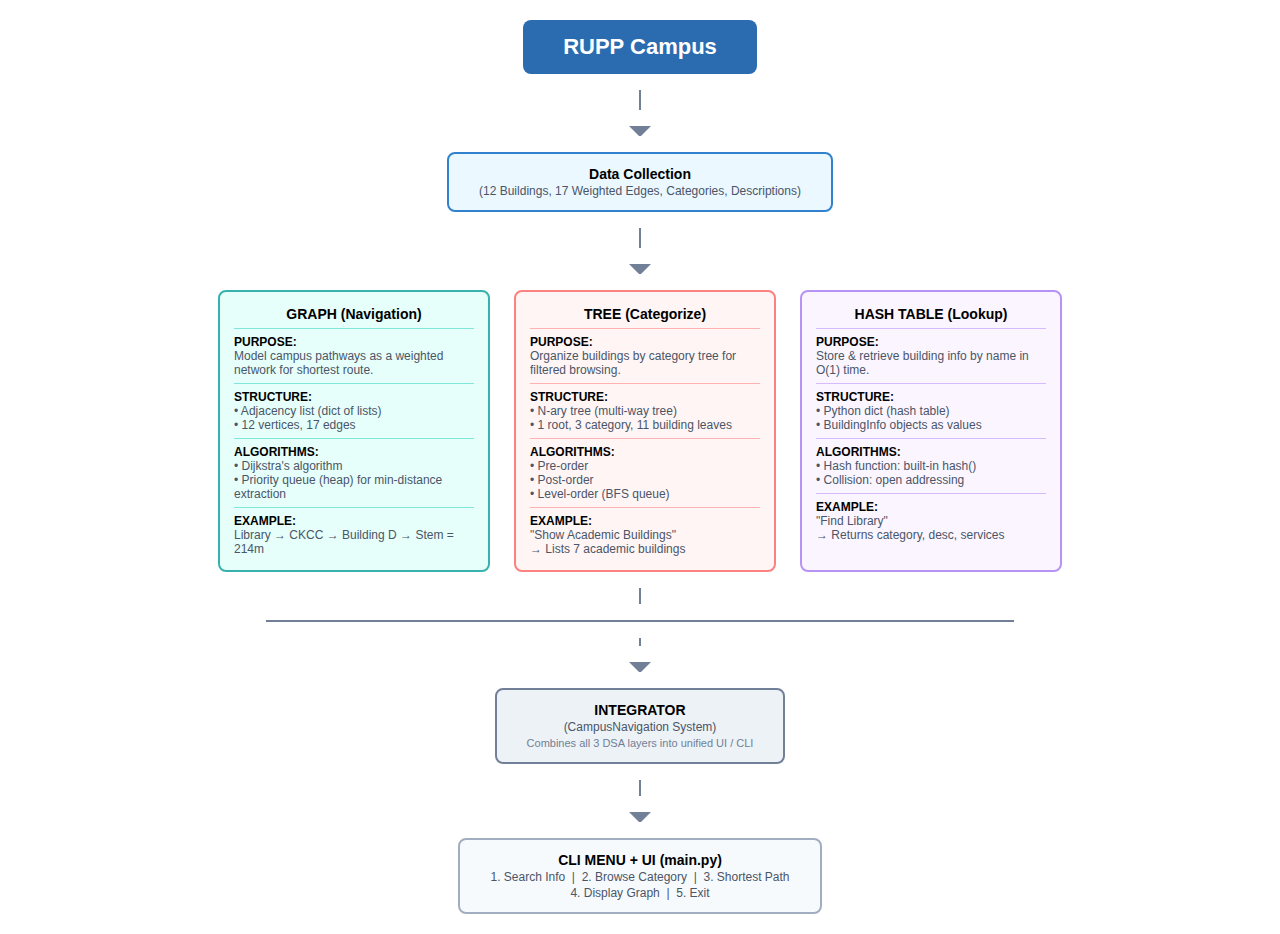
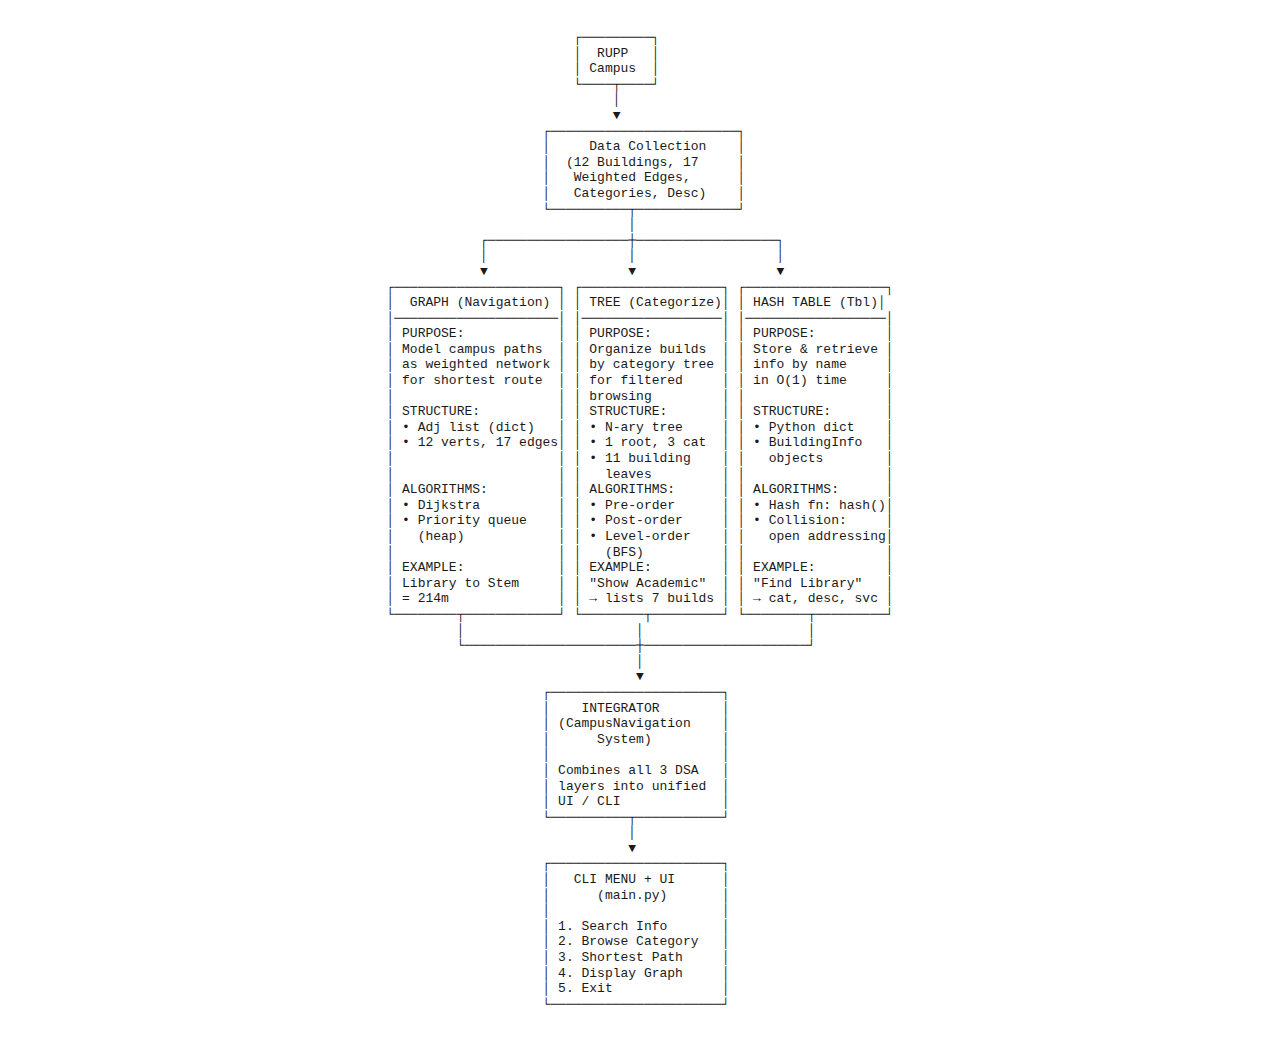
render diagram as ASCII art for student look

diff --git a/doc/architecture_diagram.py b/doc/architecture_diagram.py
@@ -1,108 +1,90 @@
 import subprocess, os
 
-HTML = r"""<!DOCTYPE html><html><body style="margin:20px;background:white;font-family:Arial,sans-serif;">
-<div style="display:flex;flex-direction:column;align-items:center;gap:16px;">
+ASCII = r"""
+                        ┌─────────┐
+                        │  RUPP   │
+                        │ Campus  │
+                        └────┬────┘
+                             │
+                             ▼
+                    ┌────────────────────────┐
+                    │     Data Collection    │
+                    │  (12 Buildings, 17     │
+                    │   Weighted Edges,      │
+                    │   Categories, Desc)    │
+                    └──────────┬─────────────┘
+                               │
+            ┌──────────────────┼──────────────────┐
+            │                  │                  │
+            ▼                  ▼                  ▼
+┌─────────────────────┐ ┌──────────────────┐ ┌──────────────────┐
+│  GRAPH (Navigation) │ │ TREE (Categorize)│ │ HASH TABLE (Tbl)│
+│─────────────────────│ │──────────────────│ │──────────────────│
+│ PURPOSE:            │ │ PURPOSE:         │ │ PURPOSE:         │
+│ Model campus paths  │ │ Organize builds  │ │ Store & retrieve │
+│ as weighted network │ │ by category tree │ │ info by name     │
+│ for shortest route  │ │ for filtered     │ │ in O(1) time     │
+│                     │ │ browsing         │ │                  │
+│ STRUCTURE:          │ │ STRUCTURE:       │ │ STRUCTURE:       │
+│ • Adj list (dict)   │ │ • N-ary tree     │ │ • Python dict    │
+│ • 12 verts, 17 edges│ │ • 1 root, 3 cat  │ │ • BuildingInfo   │
+│                     │ │ • 11 building    │ │   objects        │
+│                     │ │   leaves         │ │                  │
+│ ALGORITHMS:         │ │ ALGORITHMS:      │ │ ALGORITHMS:      │
+│ • Dijkstra          │ │ • Pre-order      │ │ • Hash fn: hash()│
+│ • Priority queue    │ │ • Post-order     │ │ • Collision:     │
+│   (heap)            │ │ • Level-order    │ │   open addressing│
+│                     │ │   (BFS)          │ │                  │
+│ EXAMPLE:            │ │ EXAMPLE:         │ │ EXAMPLE:         │
+│ Library to Stem     │ │ "Show Academic"  │ │ "Find Library"   │
+│ = 214m              │ │ → lists 7 builds │ │ → cat, desc, svc │
+└────────┬────────────┘ └────────┬─────────┘ └────────┬─────────┘
+         │                      │                     │
+         └──────────────────────┼─────────────────────┘
+                                │
+                                ▼
+                    ┌──────────────────────┐
+                    │    INTEGRATOR        │
+                    │ (CampusNavigation    │
+                    │      System)         │
+                    │                      │
+                    │ Combines all 3 DSA   │
+                    │ layers into unified  │
+                    │ UI / CLI             │
+                    └──────────┬───────────┘
+                               │
+                               ▼
+                    ┌──────────────────────┐
+                    │   CLI MENU + UI      │
+                    │      (main.py)       │
+                    │                      │
+                    │ 1. Search Info       │
+                    │ 2. Browse Category   │
+                    │ 3. Shortest Path     │
+                    │ 4. Display Graph     │
+                    │ 5. Exit              │
+                    └──────────────────────┘
+"""
 
-<div style="background:#2B6CB0;color:white;padding:14px 40px;border-radius:8px;font-size:22px;font-weight:bold;">RUPP Campus</div>
+HTML = f"""<!DOCTYPE html><html><head>
+<style>
+body {{ margin:0; background:white; display:flex; justify-content:center; align-items:center; min-height:100vh; }}
+pre {{
+    font-family: "Courier New", "Liberation Mono", monospace;
+    font-size: 13px;
+    line-height: 1.2;
+    color: #1a1a1a;
+    padding: 30px;
+    margin: 0;
+}}
+</style></head><body>
+<pre>{ASCII}</pre>
+</body></html>"""
 
-<div style="width:2px;height:20px;background:#718096;"></div>
-<div style="width:2px;height:0;border-left:10px solid transparent;border-right:10px solid transparent;border-top:10px solid #718096;"></div>
+base = os.path.dirname(__file__)
+html_path = os.path.join(base, "arch_render.html")
+png_path = os.path.join(base, "architecture_diagram.png")
 
-<div style="background:#EBF8FF;border:2px solid #3182CE;padding:12px 30px;border-radius:8px;font-size:14px;text-align:center;">
-  <b>Data Collection</b><br>
-  <span style="font-size:12px;color:#4A5568;">
-    (12 Buildings, 17 Weighted Edges, Categories, Descriptions)
-  </span>
-</div>
-
-<div style="width:2px;height:20px;background:#718096;"></div>
-<div style="display:flex;gap:20px;">
-  <div style="width:2px;height:0;border-left:10px solid transparent;border-right:10px solid transparent;border-top:10px solid #718096;"></div>
-</div>
-
-<div style="display:flex;gap:24px;">
-
-  <!-- Graph -->
-  <div style="background:#E6FFFA;border:2px solid #38B2AC;border-radius:8px;padding:14px;width:240px;font-size:12px;">
-    <div style="text-align:center;font-weight:bold;font-size:14px;margin-bottom:6px;">GRAPH (Navigation)</div>
-    <hr style="border:0;border-top:1px solid #81E6D9;">
-    <div style="margin-top:4px;"><b>PURPOSE:</b></div>
-    <div style="color:#4A5568;">Model campus pathways as a weighted network for shortest route.</div>
-    <hr style="border:0;border-top:1px solid #81E6D9;">
-    <div style="margin-top:4px;"><b>STRUCTURE:</b></div>
-    <div style="color:#4A5568;">• Adjacency list (dict of lists)<br>• 12 vertices, 17 edges</div>
-    <hr style="border:0;border-top:1px solid #81E6D9;">
-    <div style="margin-top:4px;"><b>ALGORITHMS:</b></div>
-    <div style="color:#4A5568;">• Dijkstra's algorithm<br>• Priority queue (heap) for min-distance extraction</div>
-    <hr style="border:0;border-top:1px solid #81E6D9;">
-    <div style="margin-top:4px;"><b>EXAMPLE:</b></div>
-    <div style="color:#4A5568;">Library → CKCC → Building D → Stem = 214m</div>
-  </div>
-
-  <!-- Tree -->
-  <div style="background:#FFF5F5;border:2px solid#FC8181;border-radius:8px;padding:14px;width:230px;font-size:12px;">
-    <div style="text-align:center;font-weight:bold;font-size:14px;margin-bottom:6px;">TREE (Categorize)</div>
-    <hr style="border:0;border-top:1px solid #FEB2B2;">
-    <div style="margin-top:4px;"><b>PURPOSE:</b></div>
-    <div style="color:#4A5568;">Organize buildings by category tree for filtered browsing.</div>
-    <hr style="border:0;border-top:1px solid #FEB2B2;">
-    <div style="margin-top:4px;"><b>STRUCTURE:</b></div>
-    <div style="color:#4A5568;">• N-ary tree (multi-way tree)<br>• 1 root, 3 category, 11 building leaves</div>
-    <hr style="border:0;border-top:1px solid #FEB2B2;">
-    <div style="margin-top:4px;"><b>ALGORITHMS:</b></div>
-    <div style="color:#4A5568;">• Pre-order<br>• Post-order<br>• Level-order (BFS queue)</div>
-    <hr style="border:0;border-top:1px solid #FEB2B2;">
-    <div style="margin-top:4px;"><b>EXAMPLE:</b></div>
-    <div style="color:#4A5568;">"Show Academic Buildings"<br>→ Lists 7 academic buildings</div>
-  </div>
-
-  <!-- Hash Table -->
-  <div style="background:#FAF5FF;border:2px solid #B794F4;border-radius:8px;padding:14px;width:230px;font-size:12px;">
-    <div style="text-align:center;font-weight:bold;font-size:14px;margin-bottom:6px;">HASH TABLE (Lookup)</div>
-    <hr style="border:0;border-top:1px solid #D6BCFA;">
-    <div style="margin-top:4px;"><b>PURPOSE:</b></div>
-    <div style="color:#4A5568;">Store & retrieve building info by name in O(1) time.</div>
-    <hr style="border:0;border-top:1px solid #D6BCFA;">
-    <div style="margin-top:4px;"><b>STRUCTURE:</b></div>
-    <div style="color:#4A5568;">• Python dict (hash table)<br>• BuildingInfo objects as values</div>
-    <hr style="border:0;border-top:1px solid #D6BCFA;">
-    <div style="margin-top:4px;"><b>ALGORITHMS:</b></div>
-    <div style="color:#4A5568;">• Hash function: built-in hash()<br>• Collision: open addressing</div>
-    <hr style="border:0;border-top:1px solid #D6BCFA;">
-    <div style="margin-top:4px;"><b>EXAMPLE:</b></div>
-    <div style="color:#4A5568;">"Find Library"<br>→ Returns category, desc, services</div>
-  </div>
-
-</div>
-
-<div style="width:2px;height:16px;background:#718096;"></div>
-<div style="display:flex;gap:0;align-items:center;">
-  <div style="width:calc(240px + 24px + 230px + 24px + 230px);height:2px;background:#718096;"></div>
-</div>
-<div style="width:2px;height:8px;background:#718096;"></div>
-<div style="width:2px;height:0;border-left:10px solid transparent;border-right:10px solid transparent;border-top:10px solid #718096;"></div>
-
-<div style="background:#EDF2F7;border:2px solid #718096;padding:12px 30px;border-radius:8px;font-size:14px;text-align:center;">
-  <b>INTEGRATOR</b><br>
-  <span style="font-size:12px;color:#4A5568;">(CampusNavigation System)</span><br>
-  <span style="font-size:11px;color:#718096;">Combines all 3 DSA layers into unified UI / CLI</span>
-</div>
-
-<div style="width:2px;height:16px;background:#718096;"></div>
-<div style="width:2px;height:0;border-left:10px solid transparent;border-right:10px solid transparent;border-top:10px solid #718096;"></div>
-
-<div style="background:#F7FAFC;border:2px solid #A0AEC0;padding:12px 30px;border-radius:8px;font-size:14px;text-align:center;">
-  <b>CLI MENU + UI (main.py)</b><br>
-  <span style="font-size:12px;color:#4A5568;">
-    1. Search Info &nbsp;|&nbsp; 2. Browse Category &nbsp;|&nbsp; 3. Shortest Path<br>
-    4. Display Graph &nbsp;|&nbsp; 5. Exit
-  </span>
-</div>
-
-</div></body></html>"""
-
-path = os.path.join(os.path.dirname(__file__), "architecture_diagram.png")
-html_path = os.path.join(os.path.dirname(__file__), "arch_render.html")
 with open(html_path, "w") as f:
     f.write(HTML)
 
@@ -115,9 +97,10 @@ async def main():
         page = await b.new_page()
         await page.goto("file://{html_path}")
         await page.wait_for_load_state("networkidle")
-        await page.screenshot(path="{path}", full_page=True)
+        await page.screenshot(path="{png_path}", full_page=True)
         await b.close()
 asyncio.run(main())
 """
-subprocess.run([os.path.join(os.path.dirname(__file__), "..", ".venv", "bin", "python"), "-c", code])
-print(f"Saved: {path}")
+subprocess.run([os.path.join(base, "..", ".venv", "bin", "python"), "-c", code])
+os.remove(html_path)
+print(f"Saved: {png_path}")
